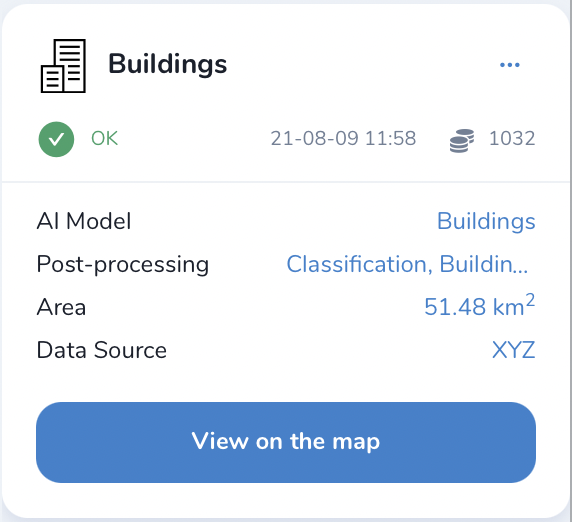
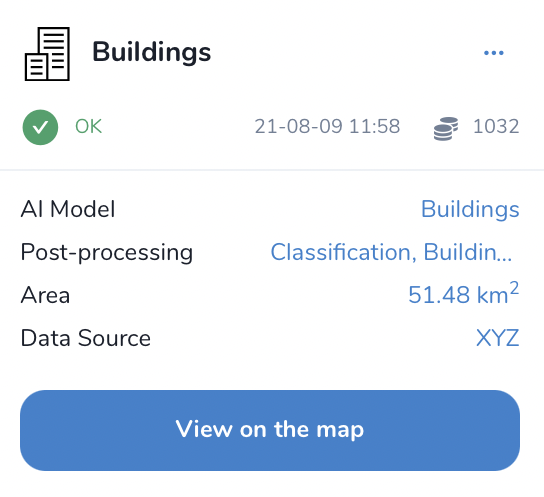
update mapflow<>qgis, update about mapflow prices, fix some immage stlyes

diff --git a/source/userguides/get_started.rst b/source/userguides/get_started.rst
@@ -1,5 +1,5 @@
-Mapflow Web
-===========
+Mapflow Web - Get started
+=========================
 
 Go to `Mapflow <https://app.mapflow.ai>`_ and register or login using your Google account.
 Mapflow processes imagery and extracts vector objects from it. So as a user, you start processings, or as we call it, **flows**.
@@ -19,12 +19,13 @@ Mapflow is designed to be intuitive. Here is our step-by-step user guide:
 ^^^^^^^^^^^^^^^^^^^^^^^^^^^^^^^^^^^^^
 
 1.1. Select the raster source
-"""""""""""""""""""""""""""”””””””””
+"""""""""""""""""""""""""""""
 
 .. image:: _static/select_provider.png
     :alt: Select provider
     :align: center
     :scale: 60
+    :class: with-border no-scaled-link
 
 - Imagery providers
 
@@ -32,10 +33,11 @@ Mapflow is designed to be intuitive. Here is our step-by-step user guide:
 
  * `Mapbox Satellite <https://mapbox.com/maps/s satellite>`_ is a provider of high resolution satellite imagery, the main providers of which are NASA and USGS;
  * `World imagery <https://www.arcgis.com/home/item.html?id=226d23f076da478bba4589e7eae95952>`_ is a provider full coverage of the whole world with high and medium resolution satellite and aerial imagery by ESRI. The frequency of updating images is 3-5 years. You can view the metadata (date, resolution, and precision) of any image. To do this, follow this `link <https://www.arcgis.com/apps/mapviewer/index.html?layers=10df2279f9684e4a9f6a7f08febac2a9>`_, zoom in, choose the point on the map and click. In the appearing window contains all information of this image.
-    .. image:: _static/image_metadata.png
-       :alt: Search image metadata
-       :align: center
-       :width: 15cm
+.. image:: _static/image_metadata.png
+    :alt: Search image metadata
+    :align: center
+    :width: 15cm
+    :class: with-border no-scaled-link
 
 
 - Custom URL
@@ -76,12 +78,13 @@ The processing AOI must be located in the area of this extent, otherwise the are
      Mapflow supports RGB imagery and also process single-band (panchromatic) imagery, but the NN models are not tuned for such kind of data, so the quality of the result may be worse than expected.
 
 1.2. Specify the area of interest
-"""""""""""""""""""""""""""""""”””’””””
+"""""""""""""""""""""""""""""""""
 
- .. image:: _static/ui_map_select_source.png
+.. image:: _static/ui_map_select_source.png
   :alt: Select AOI
   :align: center
   :width: 15cm
+  :class: with-border no-scaled-link  
 
 This tab is used to add a processing area. The user can draw the area using *Draw rectange* / *Draw polygon* tool or download it in GeoJSON format (draw and download, as well as view the data structure, follow this link - `geojson.io <http://geojson.io/>`_).
 
@@ -140,6 +143,7 @@ After the successful processing completion, the card can be opened to view more 
      :alt: Processing card
      :align: center
      :width: 8cm
+     :class: with-border no-scaled-link 
 
 
 Click the "View on the Map" to quickly view the processing result on the built-in interactive map.
@@ -221,7 +225,7 @@ Allows to download results as a file in GeoJSON format.
    :align: center
    :width: 15cm
 
-
+|
 
 3. "Open with `kepler.gl <https://kepler.geoalert.io/>`_" - view the results using this embedded app. It is a simple but powerful tool for geospatial data visualization and analysis.
 
@@ -266,5 +270,6 @@ The service uses the **Basic Auth** authorization type - use the API token, whic
    :alt: Preview map
    :align: center
    :width: 8cm
+   :class: no-scaled-link 
 
 

diff --git a/source/api/qgis_mapflow.rst b/source/api/qgis_mapflow.rst
@@ -59,6 +59,7 @@ Main plugin workspace has two sections: left sidebar with the processing control
          :alt: View of the main window
          :align: center
          :width: 20cm
+         :class: no-scaled-link 
 
 |
 
@@ -93,6 +94,7 @@ The plugin has several built-in options for creating AOI.
          :alt: View of the aoi 
          :align: center
          :width: 15cm
+         :class: with-border no-scaled-link 
 
 
 Tabs section contains 4 tabs:
@@ -114,6 +116,7 @@ Tabs section contains 4 tabs:
          :alt: View of the processing tab
          :align: center
          :width: 15cm
+         :class: with-border no-scaled-link 
 
 |
 
@@ -257,6 +260,7 @@ How to connect to Maxar SecureWatch
          :alt: View of the providers tab
          :align: center
          :width: 10cm
+         :class: with-border no-scaled-link 
 
 |
 
@@ -286,6 +290,7 @@ How to connect to Maxar SecureWatch
          :alt: Your user profile in SecureWatch
          :align: center
          :width: 15cm
+         :class: with-border no-scaled-link 
 
         The **Connect ID** is different for each product you have in your SecureWatch subscription. Therefore, initially choose the one you want. To do this, open the *User Profile* menu and in the title bar select the required of the two suggested mosaics (**Vivid** and **SecureWatch**).
      
@@ -310,7 +315,7 @@ You can use SW to discover available images for you area of interest.
      .. figure:: _static/qgis/add_SW_WFS.png
          :alt: Get specific image from SW
          :align: center
-         :width: 15cm    
+         :width: 15cm
 
 4. *Search imagery*, to view meta-data of all available images intesecting your AOI. You can apply search filters and specify the period for which you would like to receive images. This will help in forming an imagery catalog with the necessary parameters.
 5. Select the prteferable image from the imagery catalog or use the WFS generated vector layer (*Maxar SW metadata metadata*) to search through more attributes. If you want to process a specific image in advance, insert your image ID in the field on the top of the plugin, this will make it easier to find the image in the imagery catalog.
@@ -373,8 +378,8 @@ You can upload your own GeoTIFF. All raster layers currently loaded in your QGIS
          :alt: Upload TIF, select from list
          :align: center
          :width: 15cm
+         :class: with-border no-scaled-link 
 
-|
 
 .. important::
 
@@ -396,9 +401,6 @@ You can upload your own GeoTIFF. All raster layers currently loaded in your QGIS
   You could send a request using data preprocessing to help@geoalert.io
 
 
-|
-
-
 
 
 Proxy-settings
@@ -410,5 +412,4 @@ If you are behind a firewall, go to *QGIS* -> *Preferences* -> *Network* and wil
          :alt: Proxy settings
          :align: center
          :width: 15cm
-
-|
+         
